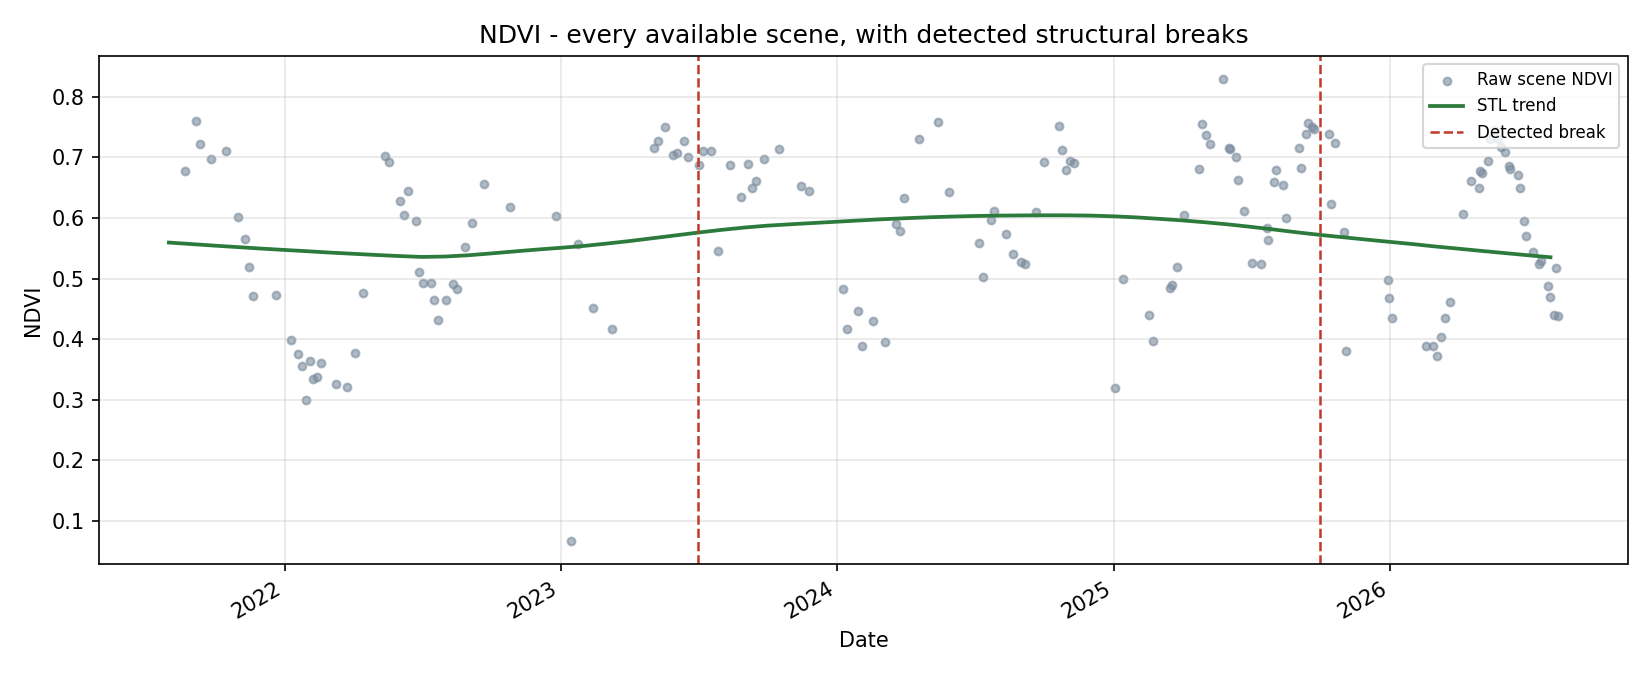
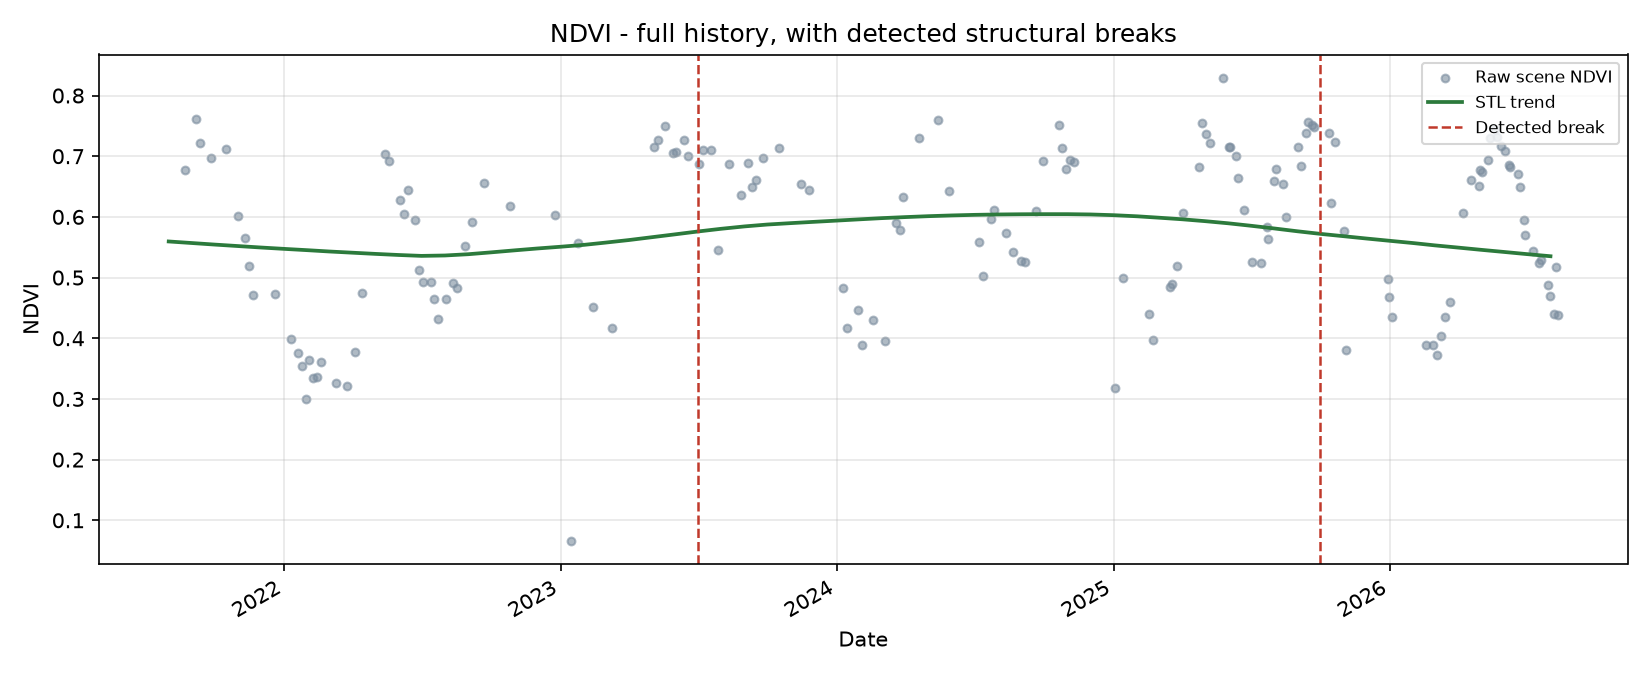
Add 1-year window option to vegetation break alerts
STL(period=12) needs >=2 full seasonal cycles to decompose trend from
season, so a literal 1-year re-fit would be statistically invalid (the
existing MIN_USABLE_SCENES/seasonal-period guard would just reject it).
Instead, bfast_alert.py now fits once on the full ALERT_YEARS history
(unchanged) and derives a "last year" VIEW into that same fit -
same trend line, same break detection, just windowed to the last 12
months for both the chart and the break list. Writes a second chart
(alert_ndvi_breaks_1y.png) and nests both windows under a new
"windows" key in alert_breaks.json, keeping the top-level shape
backward compatible.

docs/monitoring.html: segmented "Full history / Last year" control
(matching the Sector Explorer's own history-window toggle) switches
the KPI row, chart image, and break table between the two.

diff --git a/docs/monitoring.html b/docs/monitoring.html
@@ -99,15 +99,19 @@
 
   <p class="status-line" id="alerts-status"><span class="dot"></span>Loading detected breaks&hellip;</p>
 
+  <div class="control-row" style="margin-bottom:14px;">
+    <div class="segmented" role="group" aria-label="Alert history window" id="alert-window-group"></div>
+  </div>
+
   <div class="kpi-row" id="alert-kpi-row">
-    <div class="kpi"><div class="label">Usable scenes</div><div class="value" id="kpi-scenes">&mdash;</div></div>
+    <div class="kpi"><div class="label">Scenes in window</div><div class="value" id="kpi-scenes">&mdash;</div></div>
     <div class="kpi"><div class="label">Years requested</div><div class="value" id="kpi-years">&mdash;</div></div>
     <div class="kpi"><div class="label">Breaks detected</div><div class="value amber" id="kpi-breaks">&mdash;</div></div>
     <div class="kpi"><div class="label">Penalty used</div><div class="value" id="kpi-penalty">&mdash;</div><div class="sub" id="kpi-scale"></div></div>
   </div>
 
   <div class="card" style="margin-bottom: 30px;">
-    <img src="assets/img/alert_ndvi_breaks.png" alt="Raw NDVI scatter, fitted trend, and detected breaks" loading="lazy">
+    <img id="alert-chart" src="assets/img/alert_ndvi_breaks.png" alt="Raw NDVI scatter, fitted trend, and detected breaks" loading="lazy">
   </div>
 
   <h3 style="font-size:1.05rem;margin:0 0 6px;">Break table</h3>
@@ -229,25 +233,28 @@ async function loadImagery() {
 async function loadAlerts() {
   const statusEl = document.getElementById('alerts-status');
   const tbody = document.getElementById('breaks-tbody');
-  try {
-    const res = await fetch('data/alert_breaks.json', { cache: 'no-store' });
-    if (!res.ok) throw new Error('HTTP ' + res.status);
-    const d = await res.json();
+  const chartImg = document.getElementById('alert-chart');
+  const windowGroup = document.getElementById('alert-window-group');
 
-    document.getElementById('kpi-scenes').textContent = d.n_scenes ?? '—';
+  function renderWindow(d, key) {
+    const w = d.windows[key];
+    document.getElementById('kpi-scenes').textContent = w.n_scenes ?? '—';
     document.getElementById('kpi-years').textContent = d.years_requested ?? '—';
-    document.getElementById('kpi-breaks').textContent = (d.breaks ?? []).length;
+    document.getElementById('kpi-breaks').textContent = (w.breaks ?? []).length;
     document.getElementById('kpi-penalty').textContent = d.penalty_used ?? '—';
     document.getElementById('kpi-scale').textContent = 'scale ' + d.penalty_scale;
 
     const bbox = (d.bbox || []).map(v => v.toFixed(5)).join(', ');
-    statusEl.innerHTML = '<span class="dot"></span>bbox [' + bbox + ']';
+    statusEl.innerHTML = '<span class="dot"></span>' + w.label + ' &middot; bbox [' + bbox + ']';
+
+    chartImg.src = 'assets/img/alert_ndvi_breaks' + (key === d.default_window ? '' : '_' + key) + '.png';
+    chartImg.alt = 'Raw NDVI scatter, fitted trend, and detected breaks - ' + w.label.toLowerCase();
 
     tbody.innerHTML = '';
-    if (!d.breaks || d.breaks.length === 0) {
+    if (!w.breaks || w.breaks.length === 0) {
       tbody.innerHTML = '<tr><td colspan="5">No structural breaks detected in this window.</td></tr>';
     } else {
-      for (const b of d.breaks) {
+      for (const b of w.breaks) {
         const up = b.delta >= 0;
         const tr = document.createElement('tr');
         tr.innerHTML =
@@ -259,6 +266,30 @@ async function loadAlerts() {
         tbody.appendChild(tr);
       }
     }
+  }
+
+  try {
+    const res = await fetch('data/alert_breaks.json', { cache: 'no-store' });
+    if (!res.ok) throw new Error('HTTP ' + res.status);
+    const d = await res.json();
+
+    // Order windows longest-first (e.g. "5y" before "1y") so "Full history"
+    // reads as the default/primary option, matching the Sector Explorer's
+    // "Full history" / "Last year" convention.
+    const keys = Object.keys(d.windows).sort((a, b) => d.windows[b].years - d.windows[a].years);
+    windowGroup.innerHTML = keys.map((key, i) =>
+      '<button type="button" data-window="' + key + '" aria-pressed="' + (key === d.default_window ? 'true' : 'false') + '">' +
+      d.windows[key].label + '</button>'
+    ).join('');
+    windowGroup.querySelectorAll('button').forEach((btn) => {
+      btn.addEventListener('click', () => {
+        windowGroup.querySelectorAll('button').forEach((b) => b.setAttribute('aria-pressed', 'false'));
+        btn.setAttribute('aria-pressed', 'true');
+        renderWindow(d, btn.getAttribute('data-window'));
+      });
+    });
+
+    renderWindow(d, d.default_window);
   } catch (err) {
     statusEl.textContent = 'Could not load alert_breaks.json - run bfast_alert.py then publish_site.py.';
     tbody.innerHTML = '<tr><td colspan="5">No data published yet.</td></tr>';

diff --git a/bfast_alert.py b/bfast_alert.py
@@ -153,6 +153,50 @@ def run_alert():
             "delta": round(after - before, 4),
         })
 
+    # ---------- history-length view: full window + a "last year" zoom -----
+    # STL(period=12) needs >= 2 full seasonal cycles to decompose meaningfully
+    # (guarded above), so a literal 1-year *recomputation* would be invalid -
+    # there just isn't enough data for STL to separate trend from season on
+    # its own. Instead, both views share the ONE trend/break computation
+    # above (fit on the full ALERT_YEARS history) and the "1y" view is a
+    # display-only window into it: the same trend line and only the breaks
+    # that fall in the last 12 months, scoped for a closer look at recent
+    # activity - not a second, shorter-and-shakier model.
+    def window_view(years):
+        """years=None -> full history, unfiltered. Otherwise everything
+        (raw scatter, trend line, breaks) clipped to the last `years`
+        years of the same fit above."""
+        if years is None:
+            return raw_series, monthly_index, trend.values, break_dates, breaks
+        cutoff = monthly_index.max() - relativedelta(years=years)
+        w_raw = raw_series[raw_series.index >= cutoff]
+        w_mask = monthly_index >= cutoff
+        w_index = monthly_index[w_mask]
+        w_trend = trend.values[w_mask]
+        w_breaks = [b for b in breaks if pd.Timestamp(b["date"]) >= cutoff]
+        w_break_dates = [bd for bd in break_dates if bd >= cutoff]
+        return w_raw, w_index, w_trend, w_break_dates, w_breaks
+
+    full_label = f"{config.ALERT_YEARS}y"
+    windows_spec = [(full_label, None, "Full history"), ("1y", 1, "Last year")]
+
+    windows_json = {}
+    for key, years, label in windows_spec:
+        w_raw, w_index, w_trend, w_break_dates, w_breaks = window_view(years)
+        windows_json[key] = {
+            "label": label,
+            "years": years if years is not None else config.ALERT_YEARS,
+            "n_scenes": len(w_raw),
+            "breaks": w_breaks,
+        }
+        suffix = "" if key == full_label else f"_{key}"
+        plot_path = config.OUTPUT_DIR / f"alert_ndvi_breaks{suffix}.png"
+        plot_bfast_breaks(
+            w_raw, w_index, w_trend, w_break_dates, plot_path,
+            title=f"NDVI - {label.lower()}, with detected structural breaks",
+        )
+        print(f"Chart saved ({label}): {plot_path}")
+
     breaks_path = config.OUTPUT_DIR / "alert_breaks.json"
     with open(breaks_path, "w") as f:
         json.dump({
@@ -163,13 +207,12 @@ def run_alert():
             "penalty_used": round(penalty, 6),
             "n_scenes": len(raw_series),
             "breaks": breaks,
+            "default_window": full_label,
+            "windows": windows_json,
         }, f, indent=2)
-    print(f"Detected {len(breaks)} break(s): {[b['date'] for b in breaks]}")
+    print(f"Detected {len(breaks)} break(s) over the full {config.ALERT_YEARS}y history: {[b['date'] for b in breaks]}")
+    print(f"  of which {len(windows_json['1y']['breaks'])} fall in the last year")
     print(f"Breaks saved: {breaks_path}")
-
-    plot_path = config.OUTPUT_DIR / "alert_ndvi_breaks.png"
-    plot_bfast_breaks(raw_series, monthly_index, trend.values, break_dates, plot_path)
-    print(f"Chart saved: {plot_path}")
 
     print("\nAlert run complete. Outputs in:", config.OUTPUT_DIR.resolve())
 

diff --git a/publish_site.py b/publish_site.py
@@ -39,8 +39,10 @@ HISTORICAL_IMAGES = [
     "ndwi_temperature_combo.png",
 ]
 
-# Alert chart referenced by docs/monitoring.html.
-ALERT_IMAGES = ["alert_ndvi_breaks.png"]
+# Alert charts referenced by docs/monitoring.html - one per history window
+# (bfast_alert.py writes a full-history chart plus a "last year" zoom into
+# the same fit; see its window_view() for why 1y isn't a separate model).
+ALERT_IMAGES = ["alert_ndvi_breaks.png", "alert_ndvi_breaks_1y.png"]
 
 
 def _copy(name, dest_dir):
